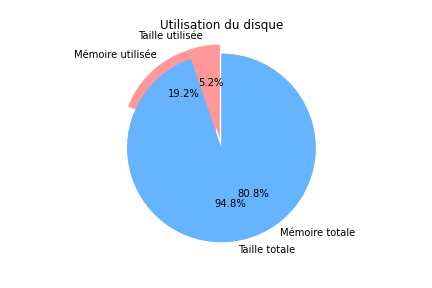
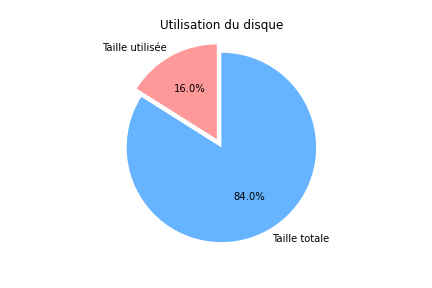
ajustement du module acces_memoire afin de définir un nouveau tuple (mémoire totale,libre et utilisée)

diff --git a/html/compil-proc.html b/html/compil-proc.html
@@ -12,17 +12,18 @@
         </h1>
         </header>
         <body>
-        <h3>Information sur le processeur de la machine:</h3>  <p>CPU Type: Intel(R) Core(TM) i3-3220 CPU @ 3.30GHz, Fréquence actuelle: 2353.004 MHz, Taille du cache: 3072 KB</p>
-        <h3>Information sur l'utilisation du disque de la machine :</h3><h4>Taille totale du disque :</h4><p> 465.76 Go</p><h4>Utilisation du disque :</h4> <p>24.37 Go</p>
-        <h3>Information sur l'OS de la machine :</h3><p> Version Linux: 6.1.0-12-amd64, Architecture: debian-kernel@lists.debian.org</p>
+        <h3>Information sur le processeur de la machine:</h3>  <p>CPU Type: Intel(R) Core(TM) i5-8400 CPU @ 2.80GHz, Fréquence actuelle: 3799.575 MHz, Taille du cache: 9216 KB</p>
+        <h3>Information sur l'utilisation du disque de la machine :</h3><h4>Taille totale du disque :</h4><p> 238.47 Go</p><h4>Utilisation du disque :</h4> <p>38.26 Go</p>
+        <h3>Information sur l'OS de la machine :</h3><p> Version Linux: 6.1.0-11-amd64, Architecture: debian-kernel@lists.debian.org</p>
         <h3>Information sur la mémoire de la machine:</h3>
-        <h4>Mémoire totale :</h4> <p>7.64 Go</p>
-        <h4>Mémoire libre :</h4> <p>1504.5 Mo</p>
+        <h4>Mémoire totale :</h4> <p>7.56 Go</p>
+        <h4>Mémoire utilisée :</h4> <p>6798.55 Mo</p>
+        <h4>Mémoire libre :</h4> <p>942.89 Mo</p>
         <h3>Nom de(s) carte(s) réseau(x) de la machine :</h3> <p>eno1</p>
         <h3>Information sur le(s) carte(s) graphique(s) de la machine : </h3>
         <p>-----------------------------------------------------------------------------------------------------------------------------------------------------------------------------------</p>
-        <p> Nombre de processus actifs sur la machine : 241<p>
-        <p> Temps total depuis que le serveur est lancé : up 25 minutes<p>
+        <p> Nombre de processus actifs sur la machine : 272<p>
+        <p> Temps total depuis que le serveur est lancé : up 2 hours, 20 minutes<p>
         <p> Ports UDP/TCP ouverts :  </p>
         <p>-----------------------------------------------------------------------------------------------------------------------------------------------------------------------------------</p>
         <p> Graphique camembert représentant l'utilisation de la mémoire actuelle : <p>

diff --git a/sae15proc/script_maitre.py b/sae15proc/script_maitre.py
@@ -33,8 +33,8 @@ def genere_page_web(nom_du_fichier,corps):
         f.close()
 
 def main():
-    sae15_biblio.memoire_pie.memoire_pie() # exécute la génération du diagramme à chaque appel de la fonction main()
     sae15_biblio.disque_pie.disque_pie()
+    sae15_biblio.memoire_pie.memoire_pie() # exécute la génération du diagramme à chaque appel de la fonction main()
     titre_page = "Compil page"
     corps = """
             <?xml version=\"1.0\" encoding=\"UTF-8\" ?>
@@ -55,6 +55,7 @@ def main():
         <h3>Information sur l'OS de la machine :</h3><p> {infos_systeme}</p>
         <h3>Information sur la mémoire de la machine:</h3>
         <h4>Mémoire totale :</h4> <p>{infos_memoire[0]} Go</p>
+        <h4>Mémoire utilisée :</h4> <p>{infos_memoire[2]} Mo</p>
         <h4>Mémoire libre :</h4> <p>{infos_memoire[1]} Mo</p>
         <h3>Nom de(s) carte(s) réseau(x) de la machine :</h3> <p>{infos_cartes_reseaux[0]}</p>
         <h3>Information sur le(s) carte(s) graphique(s) de la machine : </h3>

diff --git a/sae15proc/acces_memoire.py b/sae15proc/acces_memoire.py
@@ -39,7 +39,8 @@ def extraire_info_memoire(chemin_fichier):
             if match_total and match_libre:
                 total_memory = round(int(match_total.group(1)) / 1024**2, 2)  # Convertir en gigaoctets, arrondis
                 free_memory = round(int(match_libre.group(1)) / 1024,2)  # Convertir en mégaoctets, arrondis
-                return (total_memory,free_memory)
+                used_memory = round(total_memory * 1024 - free_memory,2)
+                return (total_memory,free_memory,used_memory)
 
     except FileNotFoundError:
         print(f"Le fichier {chemin_fichier} n'existe pas.")

diff --git a/sae15proc/memoire_pie.py b/sae15proc/memoire_pie.py
@@ -41,3 +41,5 @@ def memoire_pie():
     
     # On sauvegarde la figure et on l'affiche à l'écran (test)
     plt.savefig("plots/camembert_memoire.png") #sauvegarde dans le dossier plots
+    plt.clf() #on doit réinitialiser la figure pour pas que l'une empiètte sur l'autre lors de la génération successive.
+

diff --git a/sae15proc/disque_pie.py b/sae15proc/disque_pie.py
@@ -41,3 +41,5 @@ def disque_pie():
     
     # On sauvegarde la figure et on l'affiche à l'écran (test)
     plt.savefig("plots/camembert_disque.png") #sauvegarde dans le dossier plots
+    plt.clf()
+
